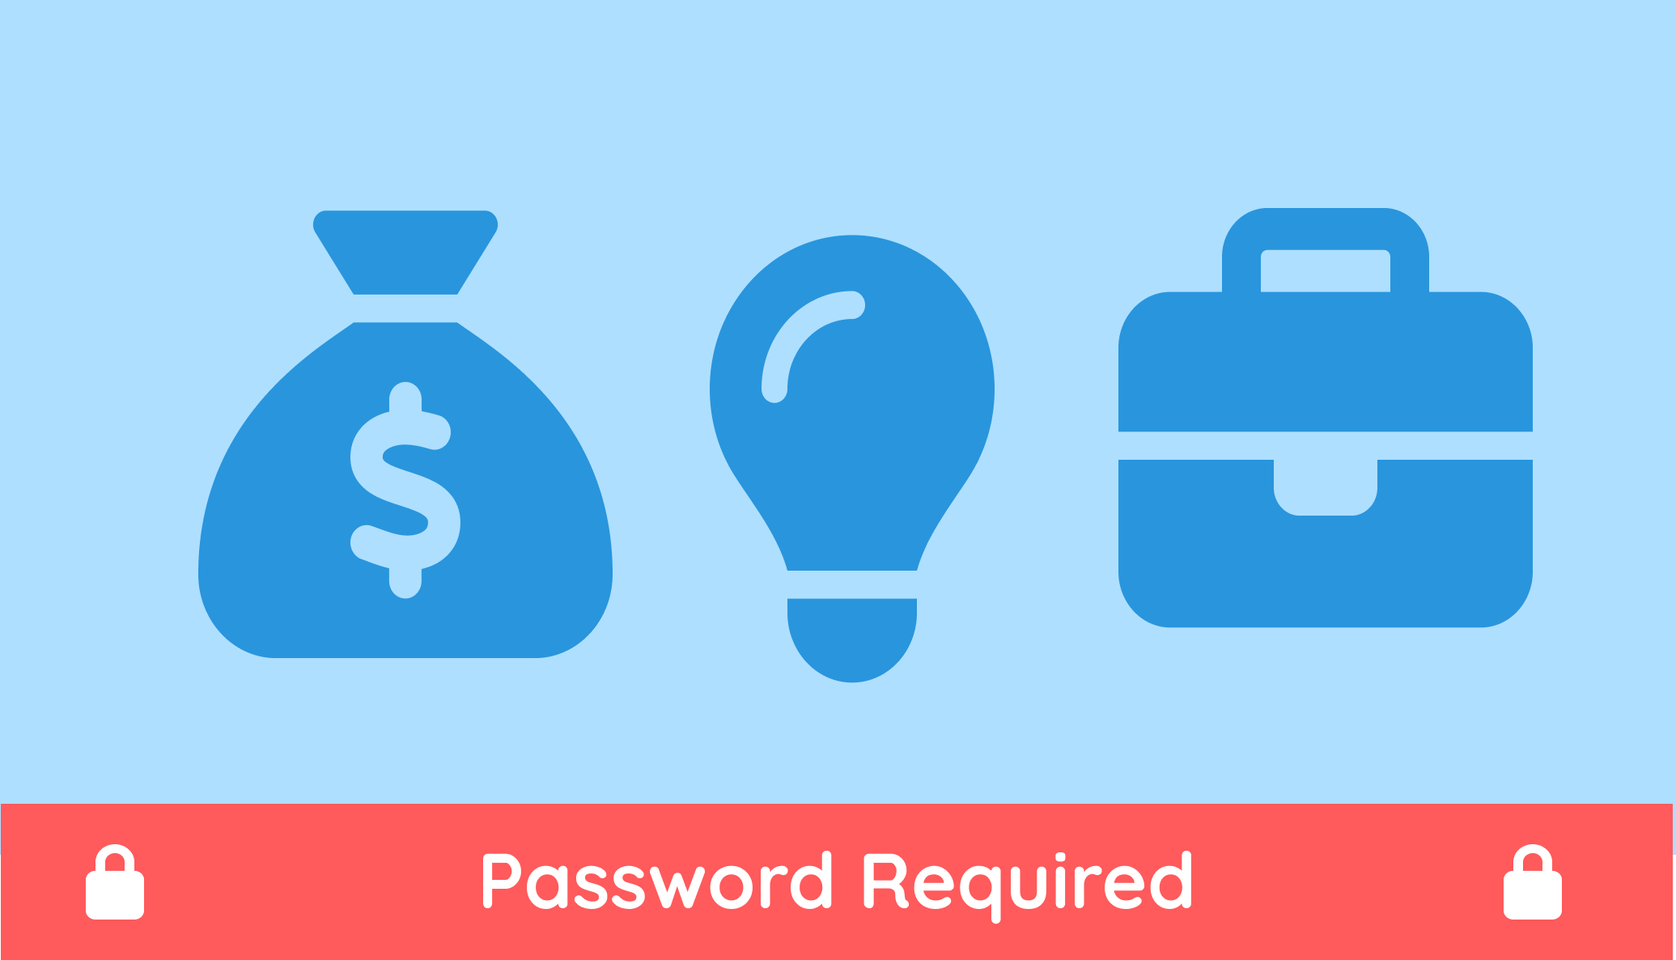
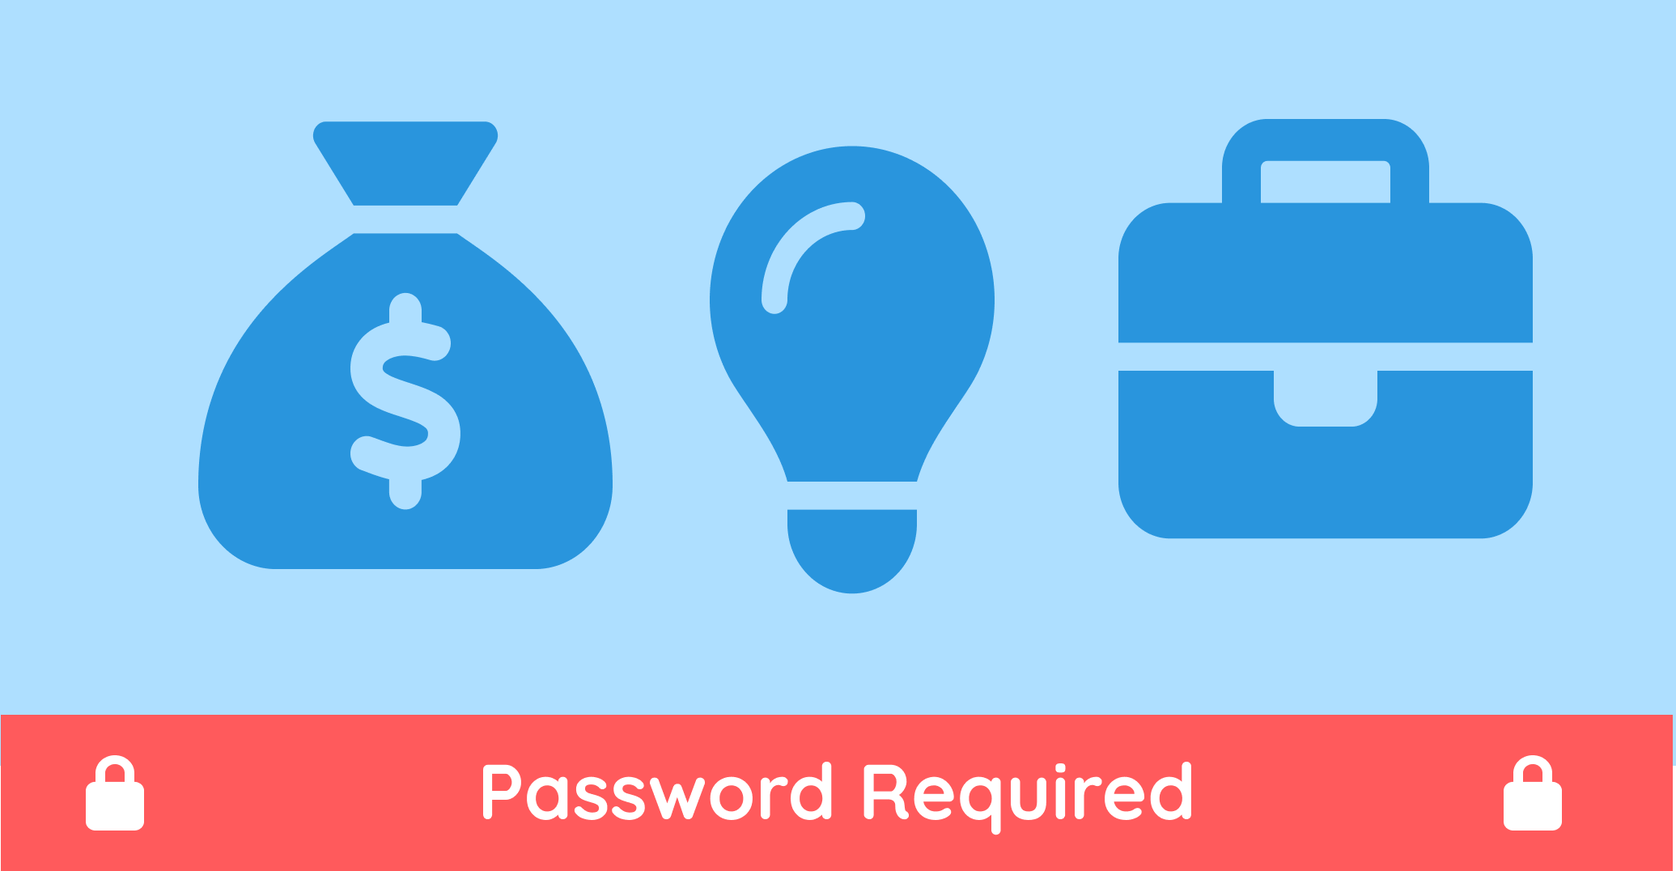
Updated mobile professional highlights

diff --git a/src/app/designTidbits/DesignTidbitsMobile.js b/src/app/designTidbits/DesignTidbitsMobile.js
@@ -55,72 +55,76 @@ const DesignTidbitsMobile = () => {
             Selected Product Design Work
           </Typography>
           <Typography sx={globalStyles.paragraph}>
-            Welcome to a selection of professional projects highlighting how I solve real-world product challenges through user-centered design. These short case studies demonstrate my approach to simplifying complex experiences, improving internal tools, and reducing operational friction. Each example highlights the problem, the design approach I took, and the impact the solution had for users and the business.
+            This collection highlights professional product experiences I helped design across customer checkout, store operations, compliance, and internal tools. I partnered with stakeholders, designers, and developers to understand workflows, define problems, and shape solutions, oftentimes creating designs and implementing interfaces directly when no formal design handoff was available.
+          </Typography>
+          <Typography sx={globalStyles.paragraph}>
+            These concise case studies show how I take ownership of usability problems, turn user and stakeholder feedback into practical design decisions, and simplify complex workflows within real business and technical constraints.
           </Typography>
         </Box>
+         <ProjectCardMobile
+          thumbnail={DigitalCheckoutOptionsAfter}
+          expandedImages={[DigitalCheckoutOptionsBefore, DigitalCheckoutOptionsAfter]}
+          title="Keeping Checkout Moving When SMS Fails"
+          problem=
+          {<Typography sx={globalStyles.paragraph}>
+            Store associates helped customers begin digital checkout by directing them to a website where they entered a unique access code. However, the associate interface emphasized texting the customer a link, leading many associates to believe SMS was required.
+            <br/><br/>When texts failed because of system outages, customer difficulty with SMS, or lack of a smartphone, associates often stopped the checkout process and contacted support.
+          </Typography>}
+          solution="I reframed the task from “send a text” to “help the customer access checkout” and introduced three clearly labeled, illustrated options: launch the checkout app, visit the website directly, or send a link by text. Store observations and associate feedback helped identify the access methods that would be most practical in real checkout situations."
+          impact="After launch, support tickets related to sending the access code and starting digital checkout dropped from one or two per week to zero. Associates could continue helping customers when SMS was unavailable, removing a recurring barrier without requiring backend changes."
+        />
         <ProjectCardMobile
           thumbnail={SalesOrdersThumbnail}
           expandedImages={[SalesOrders, CustomerDetails]}
           imageHeight={225}
-          title="1) Centralizing Lead Data to Speed Up Customer Follow-Up"
-          problem="Leads from online channels were distributed across multiple systems, leaving store managers without a single view of customer follow-ups, purchasing capacity, or order history. To understand what had already happened and determine the next step, managers had to piece together information manually. This slowed customer follow-up and created an uncertain experience for customers waiting to continue their orders."
-          solution="I worked with product, design, and engineering to create a centralized lead-management tool shaped by store workflow observations and manager interviews. The interface helped managers evaluate, prioritize, and act on leads in one place by surfacing lead source, date, purchasing capacity, sales history, notes, contact details, prior interactions, and order information, allowing them to review customer context and begin an order without switching systems."
-          impact="Managers could review customer context, document interactions, and begin an order from one place rather than reconstructing information across separate systems. Feedback indicated that the centralized workflow made leads easier to prioritize and reduced the effort required to move customers toward an order. Additionally, internal reporting showed improved conversion rates after launch."
-        />
-        <ProjectCardMobile
-          thumbnail={DigitalCheckoutOptionsAfter}
-          expandedImages={[DigitalCheckoutOptionsBefore, DigitalCheckoutOptionsAfter]}
-          title="2) Boosting Checkout Completion by Clarifying Access Options"
-          problem=
-          {<Typography sx={globalStyles.paragraph}>
-            Store associates helped customers complete digital checkout by directing them to a website where the customer would enter a unique access code. However, the associate interface implied that the primary way to start the process was by texting a link to the customer. When texting failed due to system outages, customers having difficulty with SMS, or customers not owning smartphones, associates often believed they were unable to complete checkout. 
-            <br/><br/>This misunderstanding stopped them in their tracks and led to regular support tickets from stores reporting they were unable to check out customers.
-          </Typography>}
-          solution="I reframed the task from “send a text” to “help the customer access the site” and introduced three clearly labeled, illustrated options: launch the checkout app, visit the website directly, or text a link. Observations and feedback informed which alternatives were most practical for associates."
-          impact="Support tickets dropped from 1–2 per week to zero. Associates could complete checkouts even without SMS, and customers moved through the process confidently. This reinforced that clarifying choices and surfacing alternative paths reduces operational friction without backend changes."
-        />
-        <ProjectCardMobile
-          thumbnail={VerificationAfter}
-          expandedImages={[VerificationBefore, VerificationAfter]}
-          imageHeight={350}
-          title="3) Reducing Errors in Customer Identity Verification"
-          problem="Managers were required to complete a two-step process of customer identity verification. They often missed one step or approved requests incorrectly because instructions and confirmation controls were grouped together as one action."
-          solution="I created a step-by-step flow that visually separated each verification task, included inline validation guidance, and split the action into multiple controls, with one concern per control. This approach was based on observing errors and identifying where users misunderstood or skipped steps."
-          impact="The new flow improved compliance, reduced verification errors and fraud risk, and improved manager confidence during verification tasks, helping to protect both the business and our customers. This highlighted the value of breaking complex processes into clear, sequential steps and guiding user attention."
-        />
-        <ProjectCardMobile
-          thumbnail={SimplePayAfter}
-          expandedImages={[SimplePayBefore, SimplePayAfter]}
-          title="4) Improving Payment Plan Understanding Through Visual Autopay Design"
-          problem="Dense paragraphs describing autopay schedules overwhelmed users, making it hard to anticipate draft dates or payment amounts. When unexpected amounts were drafted from customers’ accounts on dates they didn't expect, they were left confused, and subsequent steps had to be taken to update the schedule in another system."
-          solution="I redesigned the interface into visually segmented sections supported by icons and simple graphics, clarifying each detail of the autopay schedule, including recurrence frequency, date of the first draft, total amount of payments, and amount of each payment."
-          impact="Users could quickly scan and understand their plans, improving confidence and reducing scheduling corrections. The project reinforced that visual hierarchy and segmentation improve comprehension of complex information."
-        />
-        <ProjectCardMobile
-          thumbnail={ProtectionProgramsDetailsAfter}
-          expandedImages={[ProtectionProgramsDetailsBefore, ProtectionProgramsDetailsAfter]}
-          title="5) Increasing Protection Plan Adoption with Simple Feature Comparisons"
-          problem="Two optional merchandise protection programs were offered with dense text and bulleted lists on the same screen. Some users struggled to compare benefits, leading to cognitive overload and opt-outs."
-          solution="I designed a side-by-side comparison chart showing program benefits, including a “combo” column for enrolling in both. "
-          impact="The visual layout enabled faster comprehension, helping users make informed decisions quickly, opting into the programs that fit their needs."
+          title="Centralizing Lead Data to Speed Up Customer Follow-Up"
+          problem="Leads from online channels were distributed across multiple systems, leaving store managers without a single view of follow-up history, purchasing capacity, or previous orders. To understand what had already happened and determine the next step, managers had to piece together information manually. This slowed follow-up and left customers uncertain about how to continue their orders."
+          solution="I worked with product, design, and engineering to create a centralized lead-management tool shaped by store workflow observations and manager interviews. The interface helped managers evaluate, prioritize, and act on leads in one place by surfacing lead source, date, purchasing capacity, sales history, notes, contact details, prior interactions, and order information. Managers could then review the customer’s context and begin an order without switching systems."
+          impact="Manager feedback indicated that the centralized workflow made leads easier to prioritize and reduced the effort required to move customers toward an order. Internal reporting also showed improved conversion rates after launch."
         />
         <ProjectCardMobile
           thumbnail={SettingsManager}
           expandedImages={[SettingsManager]}
           imageHeight={500}
-          title="6) Enabling Faster Feature Releases with Flexible Internal Flag Management"
-          problem="Third-party feature flag tools were expensive and inflexible to our delivery goals. Grouping users and deploying features relied on manual, error-prone workflows and limited experimentation."
-          solution="I designed a flexible web tool supporting dynamic segmentation, hierarchical feature organization, and streamlined bulk actions. Design decisions were informed by developer feedback and observing common workflow bottlenecks."
-          impact="Teams gained full control over rollouts, could run experiments faster, and deployed features more efficiently. The project reinforced the importance of designing internal tools that align with actual workflows and reduce friction."
+          title="Replacing Manual Feature Rollouts with a Flexible Internal Tool"
+          problem="The company relied on a generic third-party feature-flagging tool that was costly and did not support the way our business organized stores. Teams needed to create their own overlapping groups (such as franchises, pilot stores, or stores using automatic decisioning) and assign features to those groups without being limited to a fixed segmentation model."
+          solution="I designed an internal web tool informed by developer feedback and existing rollout workflows. The system allowed teams to define custom store groups, include the same store in multiple groups, organize related features hierarchically, and manage multiple configurations through bulk actions."
+          impact="The tool gave teams a more flexible way to control feature access and rollouts using groupings that reflected real operational needs. It made complex configurations easier to organize and supported more targeted pilots and experiments than the generic external platform."
         />
         <ProjectCardMobile
           thumbnail={CopyHero}
           expandedImages={[LocalizationManager]}
-          title="7) Empowering Teams to Manage Content Without Developer Dependencies"
-          problem="Updating multilingual content required developer effort, manual processes, and carried risks of inconsistency or errors."
-          solution="I designed a system that manages content “keys” with translations in English, Spanish, and additional languages. Keys integrate directly into the website code for dynamic updates and support formatting and personalized messaging. Design choices were informed by interviews with content editors and developers to understand bottlenecks."
-          impact="The tool streamlined localization workflows, reduced developer dependency, and improved accuracy and speed for content updates. This project highlighted the importance of designing systems that empower users while reducing operational dependencies."
+          title="Enabling Content Teams to Update Translations Without Code Changes"
+          problem="Updating multilingual website content required developers to edit code and release changes, even for routine copy updates. This created unnecessary handoffs, slowed content changes, and increased the risk of inconsistent copy."
+          solution="I designed a localization-management tool shaped by interviews with content editors and developers. The system allowed teams to create and manage content keys, maintain translations across English, Spanish, and additional languages, and support formatting and personalized messaging. These keys connected directly to the website so approved content changes could be reflected without editing the surrounding interface code."
+          impact="The tool gave content teams greater control over multilingual text updates while reducing engineering involvement in routine copy changes. It also created a more consistent, centralized workflow for managing copy across the website."
         />
+        <ProjectCardMobile
+          thumbnail={VerificationAfter}
+          expandedImages={[VerificationBefore, VerificationAfter]}
+          imageHeight={350}
+          title="Reducing Missed Steps in Customer Identity Verificationn"
+          problem="Managers were required to complete two separate identity-verification checks before approving a customer request. Because the instructions and confirmation controls were grouped together, managers sometimes overlooked one of the checks or approved the request incorrectly."
+          solution="I redesigned the process as a guided, step-by-step flow that visually separated each verification task, provided inline guidance, and assigned one decision to each control. Observed errors and points of confusion informed where the workflow needed stronger separation and clearer direction."
+          impact="The new flow made each verification requirement more visible and reduced opportunities for managers to skip a step or approve a request unintentionally. Post-launch reporting showed fewer incomplete or incorrectly approved verifications, while manager feedback indicated greater confidence in completing the process."
+        />
+        <ProjectCardMobile
+          thumbnail={SimplePayAfter}
+          expandedImages={[SimplePayBefore, SimplePayAfter]}
+          title="Making Autopay Schedules Easier to Understand (unshipped concept)"
+          blurb="Make autopay dates, amounts, and frequency easier to understand before enrollment."
+          problem="Autopay schedules were presented in dense paragraphs, making important details such as draft dates, payment frequency, and payment amounts difficult to identify. When customers misunderstood the schedule, unexpected drafts created confusion and required associates to correct the plan in a separate system."
+          solution={<Typography sx={globalStyles.paragraph}>I independently redesigned the experience by reorganizing the information into visually distinct sections supported by icons and simple graphics. The new hierarchy highlighted payment frequency, first draft date, number of scheduled payments, and amount per payment so users could understand the plan without interpreting a dense block of text.<br/><br/>The design team responded positively to the concept, but the project was deprioritized before implementation because of organizational constraints. Although it has yet to be shipped, the work demonstrates how I translate dense financial information into a clearer, more scannable experience.</Typography>}
+        />
+         {/* hiding this because it's the least strong of all of the case studies */}
+        {false && <ProjectCardMobile
+          thumbnail={ProtectionProgramsDetailsAfter}
+          expandedImages={[ProtectionProgramsDetailsBefore, ProtectionProgramsDetailsAfter]}
+          title="(concept) Helping Customers Compare Protection Programs"
+          problem="Two optional merchandise protection programs were offered with dense text and bulleted lists on the same screen. Some users struggled to compare benefits, leading to cognitive overload and opt-outs."
+          solution="I designed a side-by-side comparison chart showing program benefits, including a “combo” column for enrolling in both. "
+          impact="The visual layout enabled faster comprehension, helping users make informed decisions quickly, opting into the programs that fit their needs."
+        />}
       </Grid>
     </Box>
   );

diff --git a/src/app/portfolio/CaseStudiesHomeMobile.js b/src/app/portfolio/CaseStudiesHomeMobile.js
@@ -49,8 +49,8 @@ const CaseStudiesHomeMobile = () => {
                 />
               </Grid>
               <Grid item sx={{ p: 2 }}>
-                <h1 style={{ ...globalStyles.heading4, textAlign: "center", fontWeight: 600 }}>Freebird Hotels</h1>
-                <h2 style={{ ...globalStyles.heading6, textAlign: "center", marginTop: -10, fontStyle: "italic" }}>Fully detailed end-to-end case study demonstrating <b>design process</b> thinking</h2>
+                <h1 style={{ ...globalStyles.heading4, fontSize: 18, textAlign: "center", fontWeight: 600 }}>Freebird Hotels</h1>
+                <h2 style={{ ...globalStyles.heading6, fontSize: 16, textAlign: "center", fontStyle: "italic" }}>Fully detailed end-to-end case study demonstrating <b>design process</b> thinking</h2>
               </Grid>
             </Grid>           
           </Paper>
@@ -67,8 +67,8 @@ const CaseStudiesHomeMobile = () => {
                 />
               </Grid>
               <Grid item sx={{ p: 2 }}>
-                <h1 style={{ ...globalStyles.heading4, textAlign: "center", fontWeight: 600 }}>Professional Highlights</h1>
-                <h2 style={{ ...globalStyles.heading6, textAlign: "center", marginTop: -10, fontStyle: "italic" }}>Selected Industry Work demonstrating design of impactful <b>shipped real-world user-facing features</b> and cross-functional collaboration</h2>
+                <h1 style={{ ...globalStyles.heading4, fontSize: 18, textAlign: "center", fontWeight: 600 }}>Professional Highlights</h1>
+                <h2 style={{ ...globalStyles.heading6, fontSize: 14, textAlign: "center", fontStyle: "italic" }}>Selected Industry Work demonstrating design of impactful <b>shipped real-world user-facing features</b> and cross-functional collaboration</h2>
               </Grid>
             </Grid>   
           </Paper>
@@ -85,8 +85,8 @@ const CaseStudiesHomeMobile = () => {
                 />
               </Grid>
               <Grid item sx={{ p: 2 }}>
-                <h1 style={{ ...globalStyles.heading4, textAlign: "center", fontWeight: 600 }}>KorkBoard</h1>
-                <h2 style={{ ...globalStyles.heading6, textAlign: "center", marginTop: -10, fontStyle: "italic" }}>Problem-to-Solution UX Project demonstrating <b>problem solving</b> proficiency</h2>
+                <h1 style={{ ...globalStyles.heading4, fontSize: 18, textAlign: "center", fontWeight: 600 }}>KorkBoard</h1>
+                <h2 style={{ ...globalStyles.heading6, fontSize: 16, textAlign: "center", fontStyle: "italic" }}>Problem-to-Solution UX Project demonstrating <b>problem solving</b> proficiency</h2>
               </Grid>
             </Grid>   
           </Paper>

diff --git a/src/app/portfolio/CaseStudiesHomeContainer.js b/src/app/portfolio/CaseStudiesHomeContainer.js
@@ -65,8 +65,8 @@ const cardStyle = {
                 />
               </Grid>
               <Grid item sx={{ p: 2 }}>
-                <h1 style={{ ...globalStyles.heading4, textAlign: "center", fontWeight: 600 }}>Freebird Hotels</h1>
-                <h2 style={{ ...globalStyles.heading6, textAlign: "center", fontStyle: "italic" }}>Fully detailed end-to-end case study demonstrating <b>design process</b> thinking</h2>.
+                <h1 style={{ ...globalStyles.heading4, fontSize: 18, textAlign: "center", fontWeight: 600 }}>Freebird Hotels</h1>
+                <h2 style={{ ...globalStyles.heading6, fontSize: 16, textAlign: "center", fontStyle: "italic" }}>Fully detailed end-to-end case study demonstrating <b>design process</b> thinking</h2>.
               </Grid>
             </Grid>           
           </Paper>
@@ -83,8 +83,8 @@ const cardStyle = {
                 />
               </Grid>
               <Grid item sx={{ p: 2 }}>
-                <h1 style={{ ...globalStyles.heading4, textAlign: "center", fontWeight: 600 }}>Professional Highlights</h1>
-                <h2 style={{ ...globalStyles.heading6, textAlign: "center", marginTop: -10, fontStyle: "italic" }}>Selected Industry Work demonstrating design of impactful <b>shipped real-world user-facing features</b> and cross-functional collaboration</h2>
+                <h1 style={{ ...globalStyles.heading4, fontSize: 18, textAlign: "center", fontWeight: 600 }}>Professional Highlights</h1>
+                <h2 style={{ ...globalStyles.heading6, fontSize: 16, textAlign: "center", fontStyle: "italic" }}>Selected Industry Work demonstrating design of impactful <b>shipped real-world user-facing features</b> and cross-functional collaboration</h2>
               </Grid>    
             </Grid>   
           </Paper>
@@ -101,8 +101,8 @@ const cardStyle = {
                 />
               </Grid>
               <Grid item sx={{ p: 2 }}>
-                <h1 style={{ ...globalStyles.heading4, textAlign: "center", fontWeight: 600 }}>KorkBoard</h1>
-                <h2 style={{ ...globalStyles.heading6, textAlign: "center", marginTop: -10, fontStyle: "italic" }}>Problem-to-Solution UX Project demonstrating <b>problem solving</b> proficiency</h2>
+                <h1 style={{ ...globalStyles.heading4, fontSize: 18, textAlign: "center", fontWeight: 600 }}>KorkBoard</h1>
+                <h2 style={{ ...globalStyles.heading6, fontSize: 16, textAlign: "center", fontStyle: "italic" }}>Problem-to-Solution UX Project demonstrating <b>problem solving</b> proficiency</h2>
               </Grid>
             </Grid>   
           </Paper>

diff --git a/src/app/designTidbits/ProjectCardMobile.js b/src/app/designTidbits/ProjectCardMobile.js
@@ -86,15 +86,21 @@ const ProjectCardMobile = ({
         {/* Expanded content */}
         <Collapse in={expanded} timeout="auto" unmountOnExit>
           <Box sx={{ mt: 2 }}>
-            {problem && (
-              <Typography sx={globalStyles.paragraph}>{problem}</Typography>
-            )}
-            {solution && (
-              <Typography sx={globalStyles.paragraph}>{solution}</Typography>
-            )}
-            {impact && (
-              <Typography sx={globalStyles.paragraph}>{impact}</Typography>
-            )}
+            {problem &&  
+              <Box sx={{ mb: 5 }}>
+                <Typography sx={globalStyles.heading6}><b>Challenge</b></Typography>
+                <Typography sx={globalStyles.paragraph}>{problem}</Typography>
+              </Box>}
+              {solution && 
+              <Box sx={{ mb: 5 }}>
+                <Typography sx={globalStyles.heading6}><b>Design Response</b></Typography>
+                <Typography sx={globalStyles.paragraph}>{solution}</Typography>
+              </Box>}
+              {impact && 
+              <Box>
+                <Typography sx={globalStyles.heading6}><b>Outcome</b></Typography>
+                <Typography sx={globalStyles.paragraph}>{impact}</Typography>
+              </Box>}
           </Box>
         </Collapse>
 
